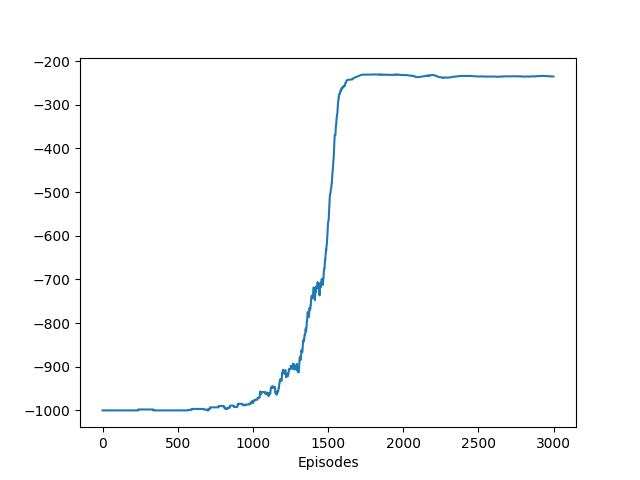
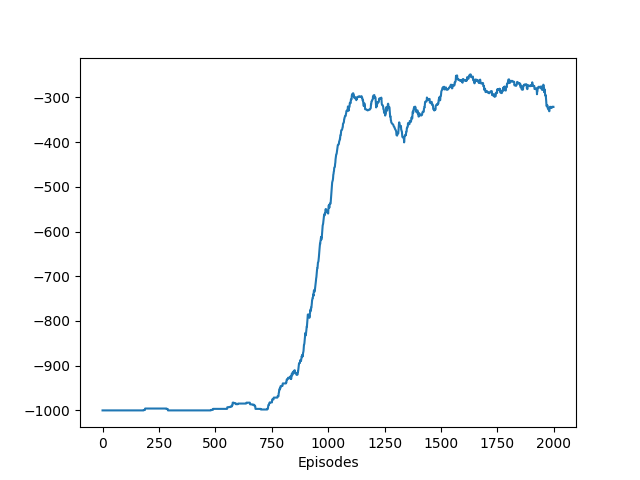
.

diff --git a/main.py b/main.py
@@ -158,16 +158,28 @@ def select_parents(population, fitnesses):
     """Selects two parents using a fitness-proportionate selection."""
     total_fitness = np.sum(fitnesses)
     selection_probs = fitnesses / total_fitness
-    parent_indices = np.random.choice(np.arange(len(population)), size=2, p=selection_probs)
+    parent_indices = np.random.choice(np.arange(len(population)), size=2, p=selection_probs, replace=False)
     return population[parent_indices[0]], population[parent_indices[1]]
 
 
-def crossover(parent1, parent2, crossover_rate, buffer_length):
+def crossover(parent1, parent2, crossover_rate, buffer_length, num_cuts):
     """Performs a single-point crossover."""
     if np.random.rand() < crossover_rate:
-        crossover_point = np.random.randint(0, buffer_length)
-        child1 = np.concatenate([parent1[:crossover_point], parent2[crossover_point:]])
-        child2 = np.concatenate([parent2[:crossover_point], parent1[crossover_point:]])
+        num_cuts = max(1, min(num_cuts, buffer_length - 1))  # Ensure num_cuts is within valid range
+        crossover_points = sorted(np.random.choice(range(1, buffer_length), num_cuts, replace=False))
+        crossover_points = [0] + crossover_points + [buffer_length]  # Add start and end points
+
+        child1, child2 = [], []
+
+        for i in range(len(crossover_points) - 1):
+            start, end = crossover_points[i], crossover_points[i + 1]
+            if i % 2 == 0:
+                child1.extend(parent1[start:end])
+                child2.extend(parent2[start:end])
+            else:
+                child1.extend(parent2[start:end])
+                child2.extend(parent1[start:end])
+        child1, child2 = np.array(child1), np.array(child2)
     else:
         child1, child2 = parent1.copy(), parent2.copy()
     return child1, child2
@@ -200,59 +212,79 @@ def load_best_buffer(best_policy_file):
 fitness_checkpoints = []
 
 
-def genetic_algorithm(population_size, generations, mutation_rate, crossover_rate, buffer_length, best_buffer_file,
-                      env):
+def genetic_algorithm(population_size, mutation_rate, crossover_rate, buffer_length, best_buffer_file,
+                      crossing_count, env, startFromScratch):
     # Initialize the population
     population = np.array([create_buffer(buffer_length) for _ in range(population_size)])
-    best_buffer = load_best_buffer(best_buffer_file)
+    if not startFromScratch:
+        best_buffer = load_best_buffer(best_buffer_file)
+    else:
+        best_buffer = None
     best_score = evaluate_buffer(best_buffer, env) if best_buffer is not None else -np.inf
     best_scores = []
 
-    for generation in range(generations):
+    generation = 0
+    stagnation_counter = 0  # Add a counter for stagnation
+    mutation_rate_cpy = mutation_rate
+    crossover_rate_cpy = crossover_rate
+
+    while best_score < -250 and generation < 10000:
         # Evaluate fitness of each individual
         fitnesses = np.array([evaluate_buffer(policy, env) for policy in population])
-        
+
         # Select the best policy
         max_fitness_idx = np.argmax(fitnesses)
         if fitnesses[max_fitness_idx] > best_score:
             best_score = fitnesses[max_fitness_idx]
             best_buffer = population[max_fitness_idx].copy()
+            stagnation_counter = 0  # Reset stagnation counter
+            mutation_rate = mutation_rate_cpy
+            crossover_rate = crossover_rate_cpy
+        else:
+            stagnation_counter += 1  # Increment stagnation counter
 
         best_scores.append(best_score)
-        if generation % 100 == 0:
-            fitness_checkpoints.append(best_score)
-            if len(fitness_checkpoints) > 1 and fitness_checkpoints[-1] == fitness_checkpoints[-2]:
-                mutation_rate += 0.02
-                crossover_rate -= 0.02
-                print(f'Generation {generation}: Mutation rate increased to {mutation_rate}, crossover rate decreased to {crossover_rate}')
+
+        # Adapt mutation and crossover rates if stagnation occurs
+        if stagnation_counter > 1000:
+            mutation_rate = min(0.5, mutation_rate + 0.02)
+            crossover_rate = max(0.5, crossover_rate - 0.02)
+            print(
+                f'Generation {generation}: Mutation rate increased to {mutation_rate}, crossover rate decreased to {crossover_rate}')
+            stagnation_counter = 0  # Reset stagnation counter after adaptation
+
         print(f'Generation {generation}: Best Score = {best_score}')
 
         # Selection
-        new_population = []
-        for _ in range(population_size // 2):
+        new_population = [best_buffer.copy()]  # Elitism: carry the best individual to the next generation
+        while len(new_population) < population_size:
             parent1, parent2 = select_parents(population, fitnesses)
-            child1, child2 = crossover(parent1, parent2, crossover_rate, buffer_length)
+            child1, child2 = crossover(parent1, parent2, crossover_rate, buffer_length, crossing_count)
             new_population.append(mutate(child1, buffer_length, mutation_rate))
-            new_population.append(mutate(child2, buffer_length, mutation_rate))
+            if len(new_population) < population_size:
+                new_population.append(mutate(child2, buffer_length, mutation_rate))
         population = np.array(new_population)
+        generation += 1
 
     return best_buffer, best_scores
 
 
-def run(population_size, generations, mutation_rate, crossover_rate, policy_length, best_policy_file, render,
-        is_training, plot_filename):
+def run(population_size, mutation_rate, crossover_rate, policy_length, best_policy_file, render,
+        is_training, plot_filename, crossing_count, startFromScratch):
     if is_training:
         env = gym.make('MountainCar-v0')
-        best_policy, best_scores = genetic_algorithm(population_size, generations, mutation_rate, crossover_rate,
-                                                     policy_length,
-                                                     best_policy_file, env)
+        best_policy, best_scores = genetic_algorithm(population_size, mutation_rate, crossover_rate,
+                                                     policy_length, best_policy_file, crossing_count, env,
+                                                     startFromScratch)
+
         save_best_buffer(best_policy, best_policy_file)
         env.close()
 
         plt.plot(best_scores)
         plt.xlabel('Generations')
         plt.ylabel('Best Score')
-        plt.title(f'Params: pop_size={population_size}, mutation={mutation_rate}, cross_rate={crossover_rate}')
+        plt.title(
+            f'Params: pop_size={population_size}, mutation={mutation_rate}, cross_rate={crossover_rate}, cross_count={crossing_count}')
         plt.savefig(plot_filename)
         plt.show()
 
@@ -269,8 +301,12 @@ def run(population_size, generations, mutation_rate, crossover_rate, policy_leng
 
 
 if __name__ == '__main__':
-    run(population_size=50, generations=1000, mutation_rate=0.07, crossover_rate=0.9, policy_length=600,
-        best_policy_file='best_policy.json', render=True, is_training=False, plot_filename='graph3.png')
+    time_start = time.time()
+    run(population_size=100, mutation_rate=0.06, crossover_rate=0.95, policy_length=600,
+        best_policy_file='best_policy.json', render=True, is_training=True, plot_filename='graph7907.png',
+        crossing_count=7, startFromScratch=False)
+    time_end = time.time()
+    print(f'Total time: {time_end - time_start} seconds')
 
-    #qRun(3000, is_training=True, render=False)
+    #qRun(2000, is_training=True, render=False)
     #qRun(5, is_training=False, render=True)
